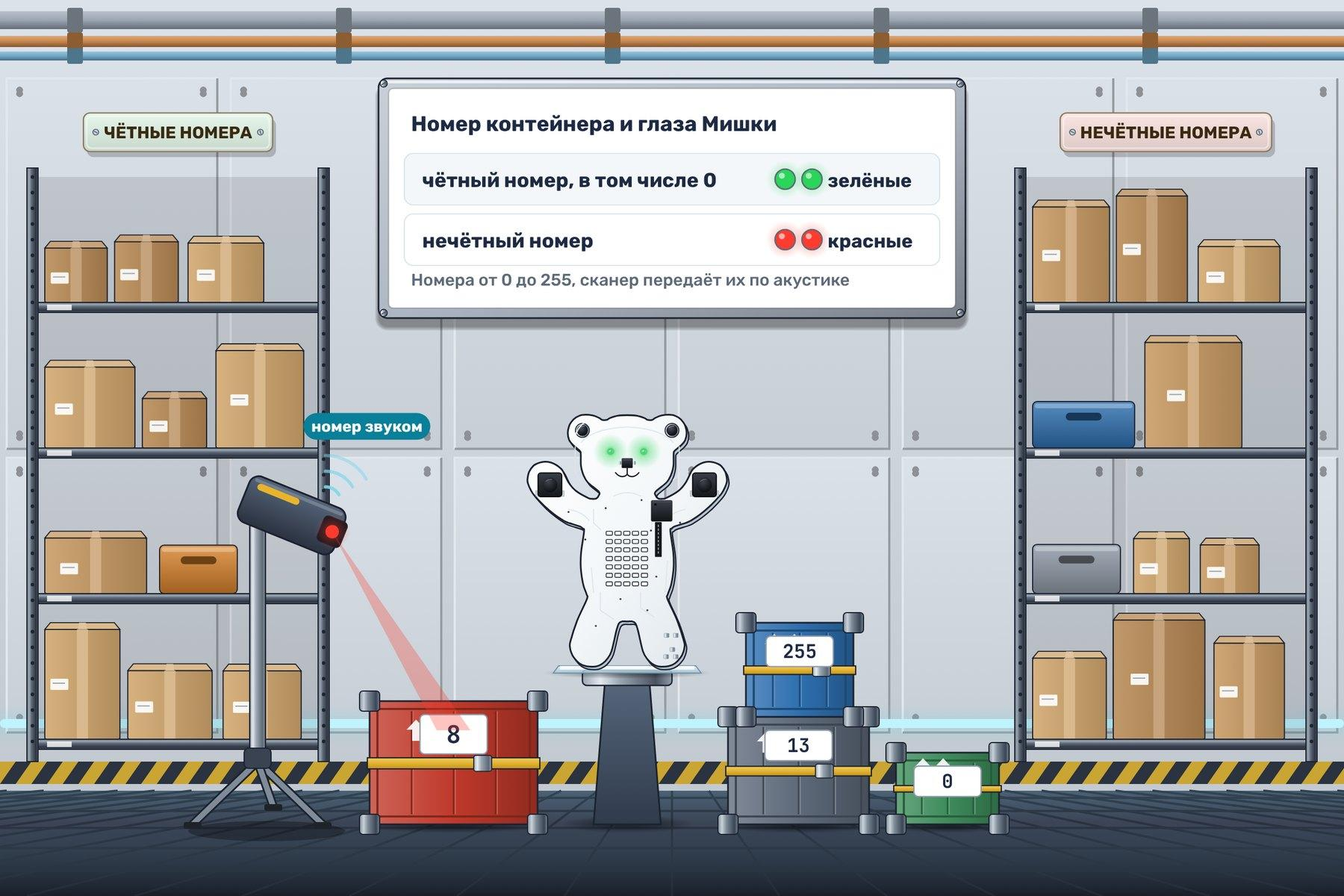
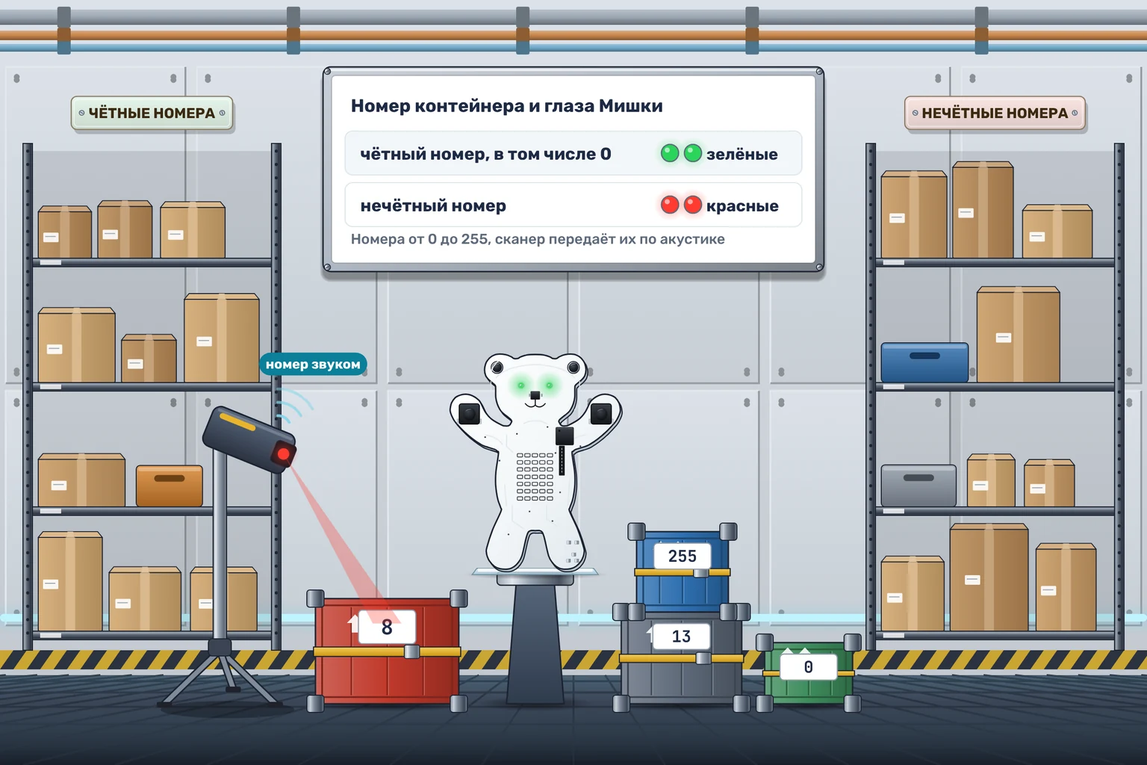
Sync module 9 tasks with revised archive and fix immediate IR display

Changed region(s): [[0.25, 0.4688, 0.3125, 0.5], [0.3125, 0.8438, 0.3438, 0.875]]

diff --git a/tests/test_module_task_checkers.py b/tests/test_module_task_checkers.py
@@ -130,9 +130,40 @@ class ModuleCheckerTests(unittest.TestCase):
 
     def test_acoustic_zero_preserves_partial_ir_pair(self):
         events = [input_byte(500, 1, 'ir'), input_byte(700, 0), input_byte(1000, 2, 'ir')]
-        points = [(0, 'black', 'empty'), (1000, 'green', 'heart')]
+        points = [(0, 'black', 'empty'), (500, 'black', 'heart'),
+                  (700, 'black', 'empty'), (1000, 'green', 'empty')]
         self.assertTrue(run('bear-two-channels', points, events)['passed'])
-        self.assertFalse(run('bear-two-channels', points[:1], events)['passed'])
+        # The second half changes only the eyes; it must not restore the cleared picture.
+        restored = points[:-1] + [(1000, 'green', 'heart')]
+        self.assertFalse(run('bear-two-channels', restored, events)['passed'])
+        delayed = [points[0], (1000, 'green', 'heart')]
+        self.assertFalse(run('bear-two-channels', delayed, events)['passed'])
+        restarted = points[:-1] + [(1000, 'black', 'smile')]
+        self.assertFalse(run('bear-two-channels', restarted, events)['passed'])
+
+    def test_each_ir_half_changes_only_its_output_immediately(self):
+        events = [input_byte(500, 1, 'ir'), input_byte(1000, 2, 'ir'),
+                  input_byte(1500, 4, 'ir'), input_byte(1750, 9),
+                  input_byte(2000, 5, 'ir'), input_byte(2500, 3, 'ir')]
+        points = [(0, 'black', 'empty'), (500, 'black', 'heart'),
+                  (1000, 'green', 'heart'), (1500, 'green', 'square'),
+                  (2000, 'white', 'square'), (2500, 'white', 'question')]
+        self.assertTrue(run('bear-two-channels', points, events)['passed'])
+        for time in (500, 1000, 1500, 2000, 2500):
+            with self.subTest(time=time):
+                delayed = [(t + 1 if t == time else t, color, picture)
+                           for t, color, picture in points]
+                self.assertFalse(run('bear-two-channels', delayed, events)['passed'])
+
+    def test_same_time_blackout_keeps_ir_byte_order(self):
+        events = [input_byte(500, 1, 'ir'), input_byte(500, 0),
+                  input_byte(500, 2, 'ir'), input_byte(1000, 2, 'ir'),
+                  input_byte(1100, 3, 'ir'), input_byte(1100, 0)]
+        points = [(0, 'black', 'empty'), (500, 'green', 'empty'),
+                  (1000, 'green', 'smile'), (1100, 'black', 'empty')]
+        self.assertTrue(run('bear-two-channels', points, events)['passed'])
+        wrong = points[:1] + [(500, 'green', 'heart')] + points[2:]
+        self.assertFalse(run('bear-two-channels', wrong, events)['passed'])
 
     def test_foreign_seven_is_not_an_address(self):
         events = [input_byte((i + 1) * 400, v, 'ir') for i, v in enumerate([5, 7, 7, 2])]

diff --git a/resources/tasks/bear-two-channels/checker.py b/resources/tasks/bear-two-channels/checker.py
@@ -28,22 +28,27 @@ def timeline(case, execution, points):
         if color is not None and not eyes_are(state, color):
             return fail(t, "Неверный цвет глаз: проверьте входные данные, последовательность и время реакции")
         if picture is not None and not picture_is(state, picture):
-            return fail(t, "Неверная картинка на животе: проверьте выбор рисунка и момент выключения")
+            return fail(t, "Неверная картинка на матрице: проверьте выбор рисунка и момент выключения")
     return {"passed": True}
 
 
 def check(case, execution):
+    # Новое условие (10.11.2026): каждая часть открытки горит сразу. Первый байт пары по ИК - картинка,
+    # она появляется сразу; второй - цвет глаз, глаза загораются сразу. 0 по акустике гасит и глаза, и матрицу,
+    # а приём пары продолжается с того же места.
     pictures = ["empty", "heart", "smile", "question", "square"]
     colors = ["black", "red", "green", "cyan", "yellow", "white"]
-    first = None
-    points = [(0, "black", "empty")]
+    color, picture, first = "black", "empty", True
+    points = [(0, color, picture)]
     for event in inputs(case):
         if event["channel"] == "ears":
             if event["byte"] == 0:
-                points.append((event["timeMs"], "black", "empty"))
-        elif first is None:
-            first = event["byte"]
+                color, picture = "black", "empty"
+                points.append((event["timeMs"], color, picture))
+        elif first:
+            picture, first = pictures[event["byte"]], False
+            points.append((event["timeMs"], color, picture))
         else:
-            points.append((event["timeMs"], colors[event["byte"]], pictures[first]))
-            first = None
+            color, first = colors[event["byte"]], True
+            points.append((event["timeMs"], color, picture))
     return timeline(case, execution, points)

diff --git a/docs/module-8-9-tasks.md b/docs/module-8-9-tasks.md
@@ -38,7 +38,11 @@
 
 В «Тайнике в замерах» есть два различных скрытых потока с одинаковым сообщением. «Две половинки» содержит скрытый запуск на 21 байт и открытые диагностические запуски. В описаниях и codeWord этих двух задач нет ответа; расшифрованное слово вводится на курсе. Для «Посадки с орбиты» три основных испытания рисуют цветочные знаки, а дополнительное проверяет отсутствие команд при обрыве.
 
-Иллюстрации модуля 8 взяты из последнего архива исправлений, модуля 9 — из документов курса и мастер-классов. Первоначальные запросы для иллюстраций модулей 8–9 сохранены в [module-task-image-prompts.json](module-task-image-prompts.json); для заменённых картинок они описывают прежние версии. Каждая готовая картинка хранится рядом с задачей как illustration.webp и доступна без сети.
+Все десять карточек модуля 9 синхронизированы с `task_fixes2.zip` от 10.11.2026: Markdown и иллюстрации перенесены без изменений, строки списка соответствуют архиву. Версии повышены относительно текущего каталога: до 3 у девяти задач и до 4 у «Двух половинок»; более старые номера из архива не используются. Входы испытаний и кодовые слова сохранены.
+
+В «Двух каналах сразу» условие и проверка соответствуют [документу мастер-классов «Как КиберМишка принимает байты»](https://docs.google.com/document/d/1NDQe1KADYidXb2zSpJlrhIFGoHlq8Ify/edit): первый ИК-байт пары сразу меняет картинку, второй сразу меняет цвет глаз. Акустический ноль гасит оба выхода, сохраняя место в паре. Если он пришёл между половинками, следующий байт цвета меняет только глаза, а матрица остаётся пустой. Регрессионные проверки учитывают показ каждой половинки, сохранение другого выхода и порядок байтов с одинаковым временем. Все десять эталонов из архива проходят все 27 испытаний текущего каталога.
+
+Иллюстрации модулей 8 и 9 взяты из архивов `task_fixes.zip` и `task_fixes2.zip` соответственно. Первоначальные запросы для иллюстраций модулей 8–9 сохранены в [module-task-image-prompts.json](module-task-image-prompts.json); для заменённых картинок они описывают прежние версии. Каждая готовая картинка хранится рядом с задачей как illustration.webp и доступна без сети.
 
 Проверки авторских правил:
 
@@ -48,4 +52,4 @@ npx vitest run src/main/tasks.test.ts src/common/tasks.test.ts
 npm run typecheck
 ```
 
-Python-тесты проверяют временные границы, паузы между одинаковыми знаками, границы пар, сохранение незавершённой ИК-посылки после акустического нуля, полный сброс двух половинок и повторные случайные выборы. Они не требуют установленного интерпретатора или сторонних Python-библиотек.
+Python-тесты проверяют временные границы, паузы между одинаковыми знаками, границы пар, немедленный показ каждой части ИК-открытки, сохранение места в паре после акустического нуля, полный сброс двух половинок и повторные случайные выборы. Они не требуют установленного интерпретатора или сторонних Python-библиотек.

diff --git a/resources/tasks/bear-hidden-measurements/bear-hidden-measurements.md b/resources/tasks/bear-hidden-measurements/bear-hidden-measurements.md
@@ -1,10 +1,10 @@
 # Тайник в замерах
 
-Зонд Тынлау-50 исследует океан подо льдом Крифа-4. Каждые две секунды он передаёт на базу очередной замер - число от 0 до 255. Звук под водой расходится далеко, и его могут услышать чужие приёмники. Поэтому зонд спрятал важное сообщение в обычных замерах. Мишка покажет знаки, а вы прочитаете тайник.
+Зонд Тынлау-50 исследует океан подо льдом Крифа-4. Каждые две секунды он передаёт на базу очередной замер - число от 0 до 255. Звук под водой расходится далеко, и его могут услышать чужие приёмники. Поэтому зонд спрятал важное сообщение в обычных замерах. Мишка покажет знаки, а вы прочитаете сообщение.
 
 ![Мишка принимает замеры из подлёдного океана](illustration.webp)
 
-Каждый замер приходит по акустике. Найдите остаток от деления замера на 4 и покажите на матрице картинку из таблицы.
+Каждый замер приходит по акустике. Найдите остаток от деления замера на **4** и покажите на матрице картинку из таблицы.
 
 | Остаток | Картинка |
 |---|---|
@@ -13,11 +13,11 @@
 | 2 | Улыбка |
 | 3 | Треугольник |
 
-Картинка горит ровно 1 секунду, потом матрица гаснет до следующего замера. До первого замера матрица выключена, глаза всё время погашены. Байты по ИК пропускайте.
+Картинка горит **ровно 1 секунду**, потом матрица гаснет до следующего замера. До первого замера матрица выключена, глаза всё время погашены. Пропускайте байты по ИК.
 
-Замеры подаёт симулятор. Первый замер приходит на отметке 2 с, следующие - каждые 2 секунды. Числа замеров скрыты. Запустите тест «Секретные замеры», запишите картинки по порядку и разбейте их на пары. Если две картинки подряд одинаковые, это два знака, и между ними матрица гаснет.
+Симулятор передаёт замеры. Первый замер приходит на отметке 2 с, следующие - каждые **2 секунды**. Числа замеров скрыты. Запустите тест **«Секретные замеры»**, запишите картинки по порядку и разбейте их на пары. Если две картинки подряд одинаковые, это два знака, и между ними матрица гаснет.
 
-Первая картинка пары задаёт строку таблицы, вторая - столбец.
+Первая картинка пары задаёт **строку** таблицы, вторая - **столбец**.
 
 |  | Квадрат | Сердце | Улыбка | Треугольник |
 |---|---|---|---|---|
@@ -26,4 +26,4 @@
 | Улыбка | И | К | Л | М |
 | Треугольник | Н | О | П | Р |
 
-Буквы складываются в слово. Введите это слово в ответ на курсе. Во втором тесте числа другие, а остатки и тайник те же.
+Буквы складываются в слово. Введите его в ответ на платформе курса. Во втором тесте числа другие, а остатки и слово те же.

diff --git a/resources/tasks/bear-ear-calibration/bear-ear-calibration.md b/resources/tasks/bear-ear-calibration/bear-ear-calibration.md
@@ -1,10 +1,10 @@
 # Калибровка уха
 
-Подо льдом Крифа-4 работает исследовательский зонд. Радиосигнал под водой проходит плохо, поэтому зонд связывается с базой звуком. Мишка слушает океан через микрофон, опущенный в лунку. Перед первым сеансом связи нужно проверить, что Мишка правильно различает три калибровочных сигнала.
+Подо льдом Крифа-4 работает исследовательский зонд. Радиосигнал под водой проходит плохо, поэтому зонд связывается с базой звуком. Мишка слушает океан через микрофон, опущенный в лунку. Перед первым сеансом связи нужно проверить, что Мишка правильно различает три проверочных сигнала.
 
-![Мишка калибрует подводный микрофон](illustration.webp)
+![Мишка настраивает подводный микрофон](illustration.webp)
 
-Передатчик присылает по акустике числа от 1 до 255. Для каждого числа найдите остаток от деления на 3 и покажите его цветом обоих глаз.
+Передатчик присылает по акустике числа от **1 до 255**. Для каждого числа найдите **остаток от деления на 3** и покажите его цветом обоих глаз.
 
 | Остаток | Оба глаза |
 |---|---|
@@ -12,6 +12,6 @@
 | 1 | Зелёные |
 | 2 | Погашены |
 
-Цвет держится до следующего байта по акустике. До первого байта глаза погашены, матрица всё время выключена. Байты по ИК пропускайте.
+Цвет держится до следующего байта по акустике. До первого байта глаза погашены, матрица всё время выключена. Пропускайте байты по ИК.
 
-В первом тесте по акустике приходят числа 3, 4, 5 и 255 на отметках 1, 2, 3 и 4 с. Глаза становятся красными, зелёными, гаснут и снова становятся красными. При остатке 2 глаза нужно погасить, даже если до этого они горели.
+В первом тесте по акустике приходят числа **3, 4, 5 и 255** на отметках 1, 2, 3 и 4 с. Глаза становятся красными, зелёными, гаснут и снова становятся красными. При остатке 2 глаза нужно погасить, даже если до этого они горели.

diff --git a/resources/tasks/bear-station-remote/bear-station-remote.md b/resources/tasks/bear-station-remote/bear-station-remote.md
@@ -4,7 +4,7 @@
 
 ![Общий пульт управляет приборами станции](illustration.webp)
 
-Каждая посылка по ИК состоит из двух байтов: адреса и команды. Байты читайте парами с начала запуска. Команду выполняйте только при адресе 7.
+Каждая посылка по ИК состоит из **двух байтов**: адреса и команды. Читайте байты парами с начала запуска. Выполняйте команду **только при адресе 7**.
 
 | Команда | Оба глаза | Матрица |
 |---|---|---|
@@ -13,6 +13,6 @@
 | 3 | Погашены | Выключена |
 | Любая другая | Жёлтые | Вопрос |
 
-Чужую посылку пропускайте целиком, вместе с командой. Адрес сам по себе ничего не меняет, в том числе последний адрес без команды. До первой своей полной посылки глаза и матрица погашены, потом результат держится до следующей своей команды. Байты по акустике пропускайте.
+Пропускайте чужую посылку **целиком, вместе с командой**. Адрес сам по себе ничего не меняет, в том числе последний адрес без команды. До первой своей полной посылки глаза и матрица погашены, потом результат держится до следующей своей команды. Пропускайте байты по акустике.
 
-Пример: по ИК приходят 7, 1, 5, 7, 7, 2 на отметках 1, 2, 3, 4, 5 и 6 с. После пары 7, 1 глаза зелёные, на матрице «Улыбка». После пары 5, 7 ничего не меняется. После пары 7, 2 глаза красные, на матрице «Грусть».
+Пример: по ИК приходят **7, 1, 5, 7, 7, 2** на отметках 1, 2, 3, 4, 5 и 6 с. После пары 7, 1 глаза зелёные, на матрице «Улыбка». После пары 5, 7 ничего не меняется. После пары 7, 2 глаза красные, на матрице «Грусть».

diff --git a/resources/tasks/bear-two-halves/bear-two-halves.md b/resources/tasks/bear-two-halves/bear-two-halves.md
@@ -15,11 +15,11 @@
 
 По акустике приходит номер столбца. Сразу покажите его цветом обоих глаз: 1 - красный, 2 - зелёный, 3 - циановый, 4 - жёлтый.
 
-Перед каждой буквой по ИК приходит 0. Погасите и глаза, и матрицу, чтобы прошлая буква не смешалась с новой. До первого сообщения они тоже погашены. Другие байты по обоим каналам пропускайте.
+Перед каждой буквой по ИК приходит **0**. Погасите **и глаза, и матрицу**, чтобы прошлая буква не смешалась с новой. До первого сообщения они тоже погашены. Пропускайте другие байты по обоим каналам.
 
-Половинки одной буквы приходят в любом порядке. Когда приходит вторая половинка, первая остаётся на месте. Если горят и матрица, и глаза, буква готова.
+Половинки одной буквы приходят **в любом порядке**. Когда приходит вторая половинка, первая остаётся на месте. Если горят и матрица, и глаза, буква готова.
 
-Запустите тест «Секретное сообщение», запишите готовые пары и прочитайте буквы по таблице.
+Запустите тест **«Секретное сообщение»**, запишите готовые пары и прочитайте буквы по таблице.
 
 |  | Красный | Зелёный | Циановый | Жёлтый |
 |---|---|---|---|---|
@@ -28,4 +28,4 @@
 | Улыбка | И | К | Л | М |
 | Треугольник | Н | О | П | Р |
 
-Симулятор передаёт 21 скрытый байт примерно за 20 секунд. Буквы складываются в слово. Введите это слово в ответ на курсе.
+Симулятор передаёт **21 скрытый байт** примерно за 20 секунд. Буквы складываются в слово. Введите его в ответ на платформе курса.

diff --git a/resources/tasks/bear-two-channels/bear-two-channels.md b/resources/tasks/bear-two-channels/bear-two-channels.md
@@ -4,7 +4,7 @@
 
 ![Открытка идёт по ИК, команда выключения - по акустике](illustration.webp)
 
-Байты по ИК читайте парами: первый и второй, третий и четвёртый и так далее. Первый байт пары - номер картинки, второй - номер цвета обоих глаз. Новую открытку показывайте только после второго байта, до него горит прошлая открытка.
+Читайте байты по ИК парами: первый и второй, третий и четвёртый и так далее. Первый байт пары - номер картинки, второй - номер цвета обоих глаз. Показывайте каждую часть открытки сразу: картинку - как только пришёл её номер, цвет глаз - как только пришёл номер цвета.
 
 | Первый байт | Картинка | Второй байт | Цвет глаз |
 |---|---|---|---|
@@ -16,6 +16,4 @@
 
 В тестах номер картинки всегда от 1 до 4, номер цвета - от 1 до 5.
 
-По акустике в любой момент может прийти 0. Тогда сразу погасите глаза и матрицу. После этой команды Мишка продолжает принимать пару по ИК с того же места. Другие байты по акустике ничего не меняют. До первой полной открытки глаза и матрица погашены.
-
-Пример: на отметке 1 с по ИК приходит 1, на отметке 1,5 с по акустике 0, на отметке 2 с по ИК 2. В конце на матрице «Сердце», глаза зелёные.
+По акустике в любой момент может прийти **0**. Тогда сразу погасите глаза и матрицу. После этой команды Мишка продолжает принимать пару по ИК с того же места. Пропускайте другие байты по акустике. До первого байта по ИК глаза и матрица погашены.

diff --git a/resources/tasks/bear-whole-parcel/bear-whole-parcel.md b/resources/tasks/bear-whole-parcel/bear-whole-parcel.md
@@ -4,12 +4,11 @@
 
 ![Мишка проверяет акустическую посылку](illustration.webp)
 
-Байты по акустике читайте парами с начала запуска: первый и второй, третий и четвёртый и так далее.
+Читайте байты по акустике парами с начала запуска: первый и второй, третий и четвёртый и так далее.
 
-1. два одинаковых байта - оба глаза зелёные, на матрице «Улыбка»;
-
-2. два разных байта - оба глаза красные, на матрице «Грусть».
+- два одинаковых байта - оба глаза **зелёные**, на матрице **«Улыбка»**;
+- два разных байта - оба глаза **красные**, на матрице **«Грусть»**.
 
 До первой полной пары глаза и матрица погашены, потом результат держится до следующей полной пары. Когда пришёл только первый байт пары, ничего не меняйте. Байт без пары в конце результата не даёт. Байты - числа от 0 до 255, байты по ИК в пары не входят.
 
-Пример: по акустике приходят 40, 40, 17, 71 на отметках 1, 2, 3 и 4 с. На отметке 2 с Мишка показывает целую посылку, на отметке 4 с - испорченную. На отметке 3 с сравнивать 40 и 17 нельзя, потому что новая посылка ещё не собрана.
+Пример: по акустике приходят **40, 40, 17, 71** на отметках 1, 2, 3 и 4 с. На отметке 2 с Мишка показывает целую посылку, на отметке 4 с - испорченную. На отметке 3 с сравнивать 40 и 17 нельзя, потому что новая посылка ещё не собрана.

diff --git a/resources/tasks/bear-code-lock/bear-code-lock.md b/resources/tasks/bear-code-lock/bear-code-lock.md
@@ -4,10 +4,8 @@
 
 ![Мишка открывает люк между отсеками](illustration.webp)
 
-Код замка - три байта 3, 1, 4, которые приходят по акустике подряд. Сразу после запуска оба глаза красные, матрица выключена. Как только пришёл весь код, оба глаза загораются зелёным, а на матрице появляется «Улыбка». Люк остаётся открытым до конца запуска.
+Код замка - три байта **3, 1, 4**, которые приходят по акустике подряд. Сразу после запуска оба глаза красные, матрица выключена. Как только пришёл весь код, оба глаза загораются **зелёным**, а на матрице появляется **«Улыбка»**. Люк остаётся открытым до конца запуска.
 
-Если посреди кода пришёл неверный байт, Мишка начинает принимать код заново. Если этот неверный байт - 3, то с него сразу начинается новый код. Байты по ИК на замок не влияют и код не прерывают.
+Если посреди кода пришёл неверный байт, Мишка начинает принимать код заново. Если этот неверный байт - **3**, то с него сразу начинается новый код. Байты по ИК не влияют на замок и не прерывают код.
 
-Например, на байтах 3, 3, 1, 4 люк откроется, а на 3, 1, 3, 4 останется запертым.
-
-В первом тесте код 3, 1, 4 приходит по акустике на отметках 1, 2 и 3 с.
+Например, на байтах **3, 3, 1, 4** люк откроется, а на **3, 1, 3, 4** останется запертым.

diff --git a/resources/tasks/bear-every-byte/bear-every-byte.md b/resources/tasks/bear-every-byte/bear-every-byte.md
@@ -4,7 +4,7 @@
 
 ![КиберМишка слушает акустический передатчик](illustration.webp)
 
-Каждый раз, когда по акустике приходит байт, выбирайте случайное число от 1 до 5 и зажигайте оба глаза цветом из таблицы.
+Каждый раз, когда по акустике приходит байт, выбирайте случайное число от **1 до 5** и зажигайте оба глаза цветом из таблицы.
 
 | Число | Цвет глаз |
 |---|---|
@@ -14,6 +14,4 @@
 | 4 | Жёлтый |
 | 5 | Белый |
 
-Значение байта на выбор не влияет. Даже на два одинаковых байта подряд Мишка выбирает цвет два раза, и цвета могут совпасть. Цвет держится до следующего байта по акустике. До первого байта глаза погашены, матрица всё время выключена. Байты по ИК пропускайте.
-
-В первом тесте по акустике приходят байты 10, 200 и 10 на отметках 1, 2 и 3 с. При каждом из них Мишка выбирает цвет заново, и при втором байте 10 тоже.
+Значение байта не влияет на выбор. Даже на два одинаковых байта подряд Мишка выбирает цвет два раза, и цвета могут совпасть. Цвет держится до следующего байта по акустике. До первого байта глаза погашены, матрица всё время выключена. Пропускайте байты по ИК.

diff --git a/resources/tasks/bear-cargo-sorting/bear-cargo-sorting.md b/resources/tasks/bear-cargo-sorting/bear-cargo-sorting.md
@@ -6,10 +6,7 @@
 
 На каждый байт по акустике зажигайте оба глаза:
 
-1. чётный номер, в том числе 0, - зелёные глаза;
+- чётный номер, в том числе 0, - **зелёные** глаза;
+- нечётный номер - **красные** глаза.
 
-2. нечётный номер - красные глаза.
-
-Номера - числа от 0 до 255. Цвет держится до следующего байта по акустике. До первого байта глаза погашены, матрица всё время выключена. Байты по ИК пропускайте.
-
-В первом тесте по акустике приходят номера 8, 13, 0 и 255 на отметках 1, 2, 3 и 4 с. Глаза должны стать зелёными, красными, зелёными и красными.
+Номера - числа от **0 до 255**. Цвет держится до следующего байта по акустике. До первого байта глаза погашены, матрица всё время выключена. Пропускайте байты по ИК.
